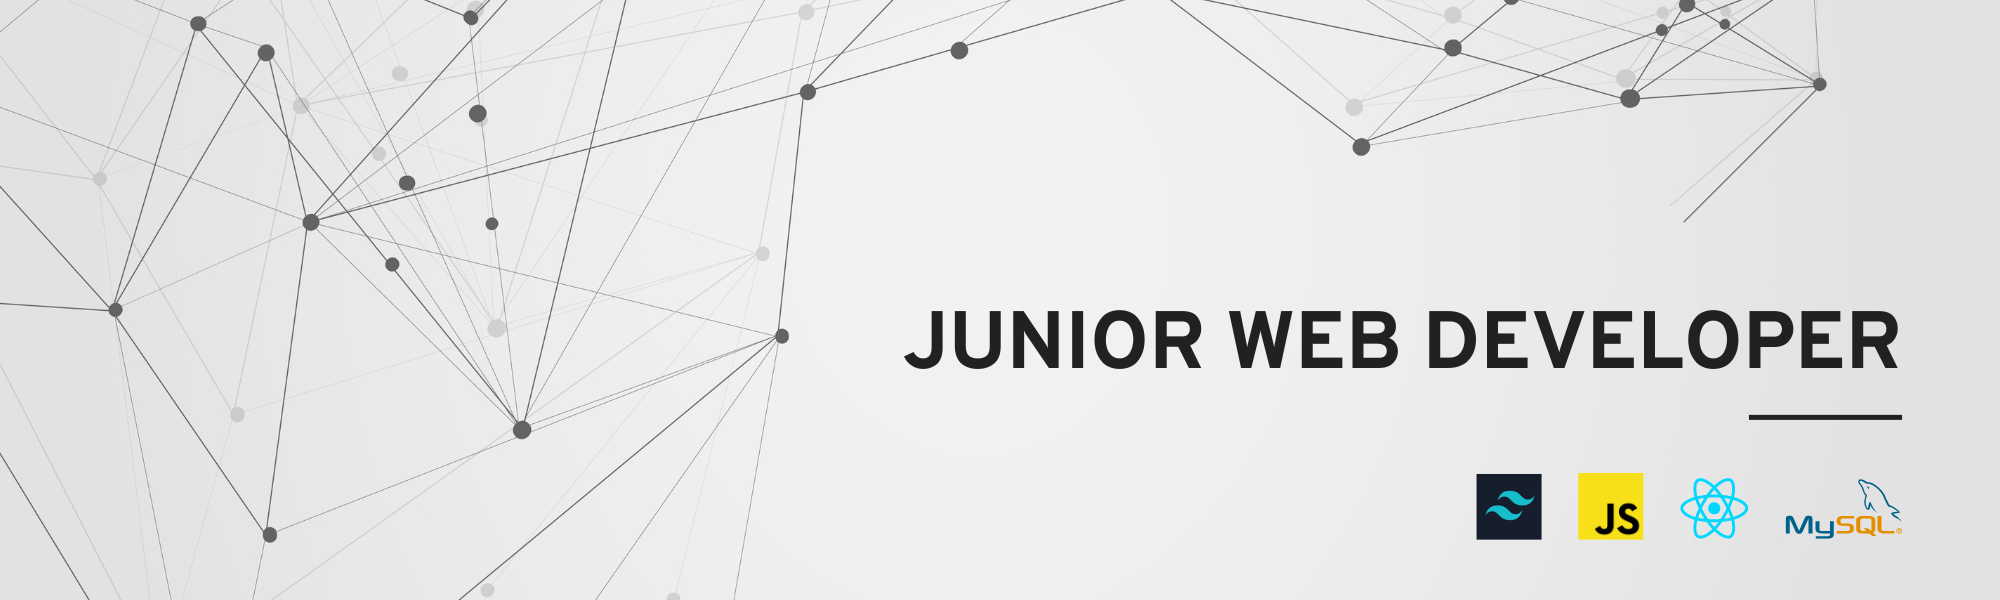
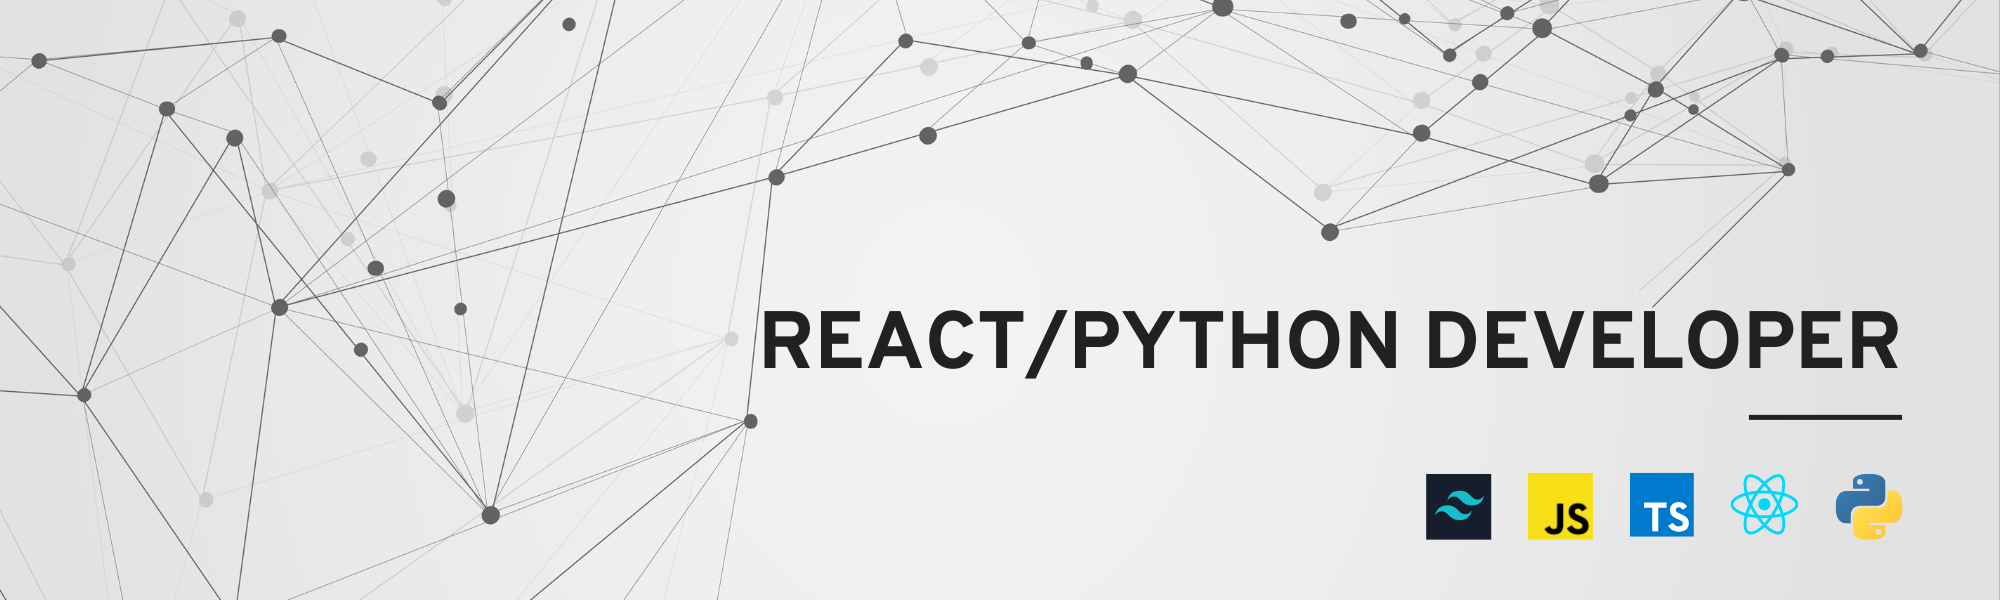
update readme

diff --git a/README.md b/README.md
@@ -21,12 +21,7 @@ You can find in my [portfolio](https://calcagno-loic.netlify.app/) the achieveme
 
 <p align="center">
   <a href="https://skillicons.dev">
-    <img src="https://skillicons.dev/icons?i=html,css,sass,tailwind,js" />
-  </a>
-</p>
-<p align="center">
-  <a href="https://skillicons.dev">
-    <img src="https://skillicons.dev/icons?i=react,redux,mysql,vite" />
+    <img src="https://skillicons.dev/icons?i=tailwind,js,ts,react,redux,mysql,python,vite" />
   </a>
 </p>
 
